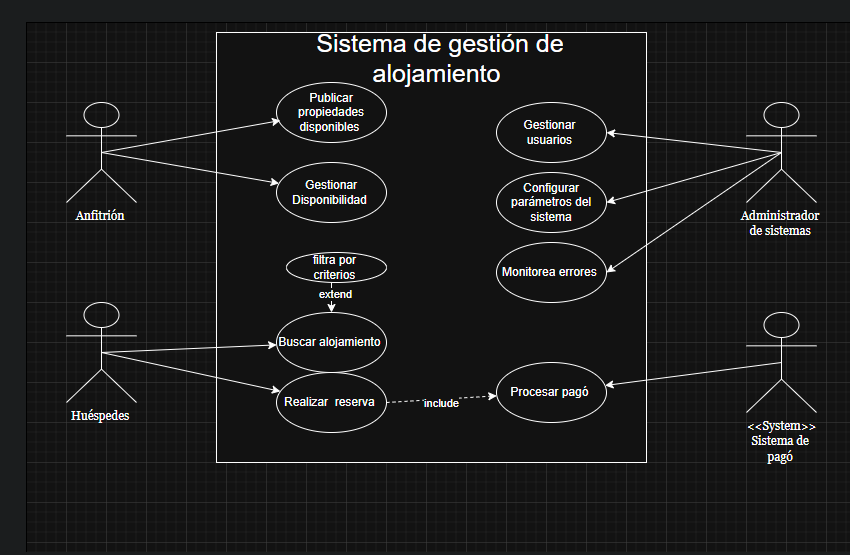
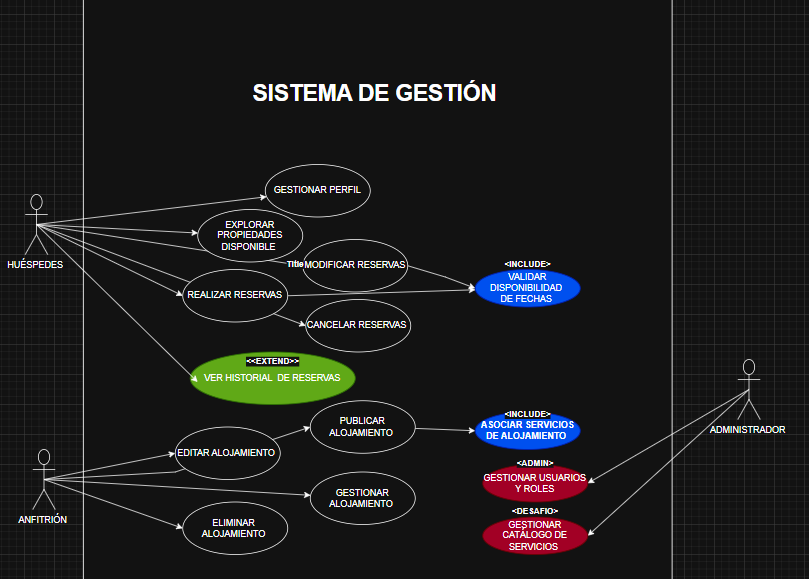
correcion del diagrama anterior

diff --git a/docs/entrega-1-analisis.md b/docs/entrega-1-analisis.md
@@ -43,7 +43,7 @@
 > Insertar imagen del diagrama exportado desde Draw.io, Lucidchart, StarUML o similar.  
 > Guardar la imagen en esta misma carpeta (`docs/`) y referenciarla abajo.
 
-![Diagrama de Casos de Uso] ![alt text](Diagrama-caso-de-uso.png)
+![Diagrama de Casos de Uso](Diagrama-caso-de-uso.png)
 ## 6. Especificación de Casos de Uso
 
 ### CU-01 — [Nombre del caso de uso]
